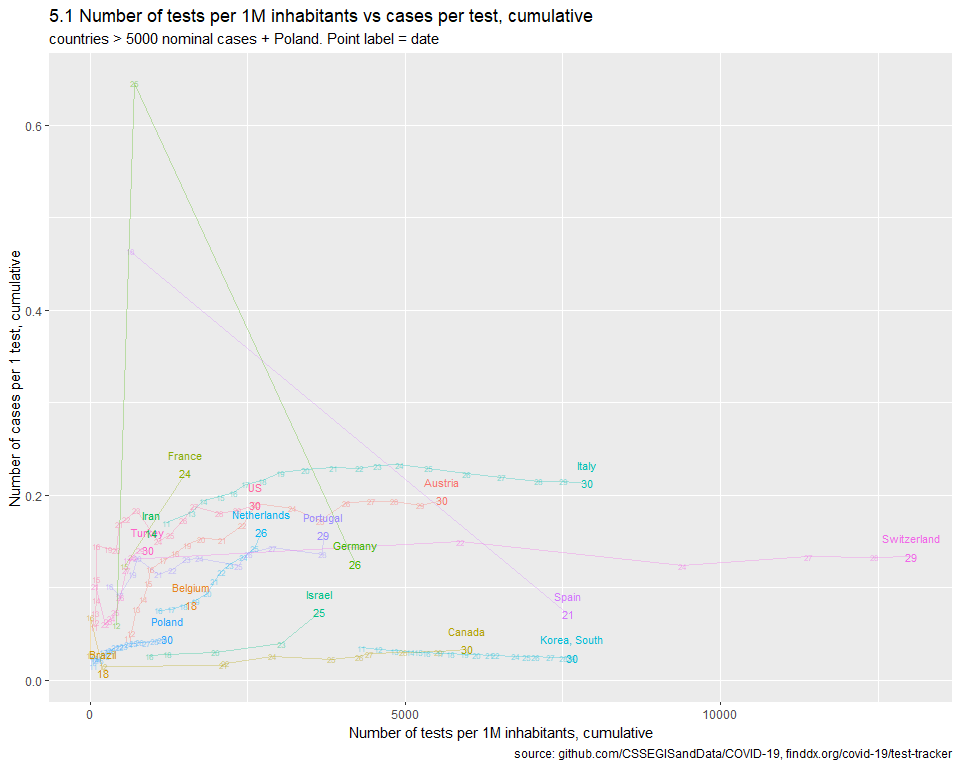
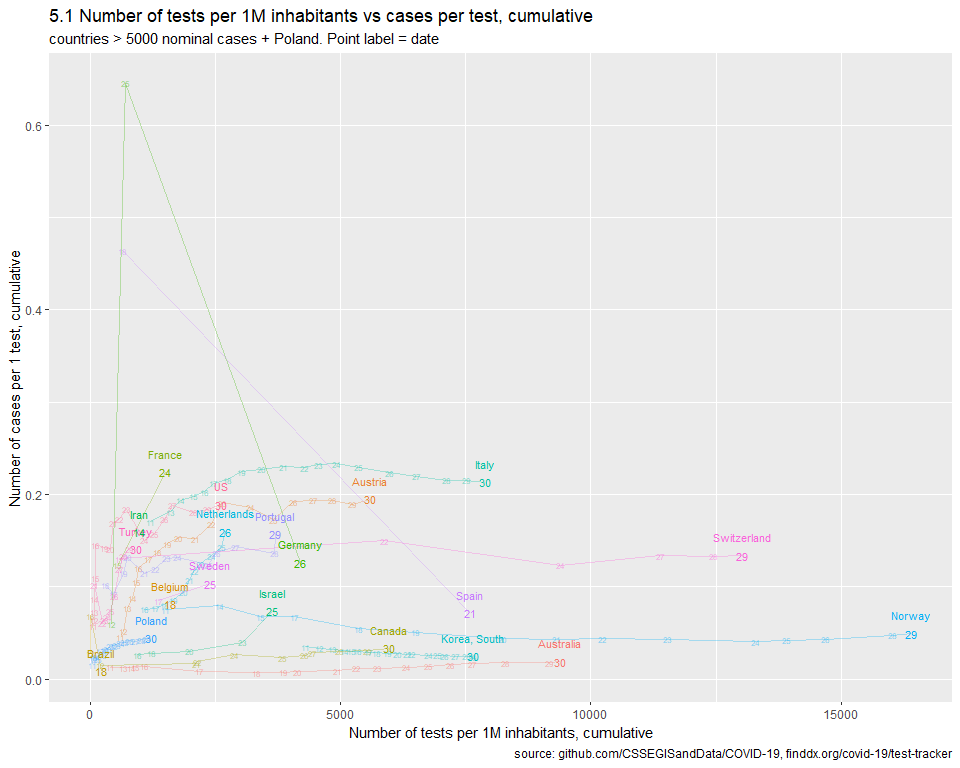
udpate 03.04

diff --git a/main.md b/main.md
@@ -11,8 +11,8 @@ url_dead <- "https://raw.githubusercontent.com/CSSEGISandData/COVID-19/master/cs
 MIN_VALUE <- 5000
 MIN_VALUE_DEATHS <- 500
 MIN_DATE_TESTS <- "2020-03-10"
-MIN_DATE <- "2020-03-21"
-TODAY    <- "2020-03-31"
+MIN_DATE <- "2020-03-25"
+TODAY    <- "2020-04-02"
 TAKE_LOG <- TRUE
 ```
 
